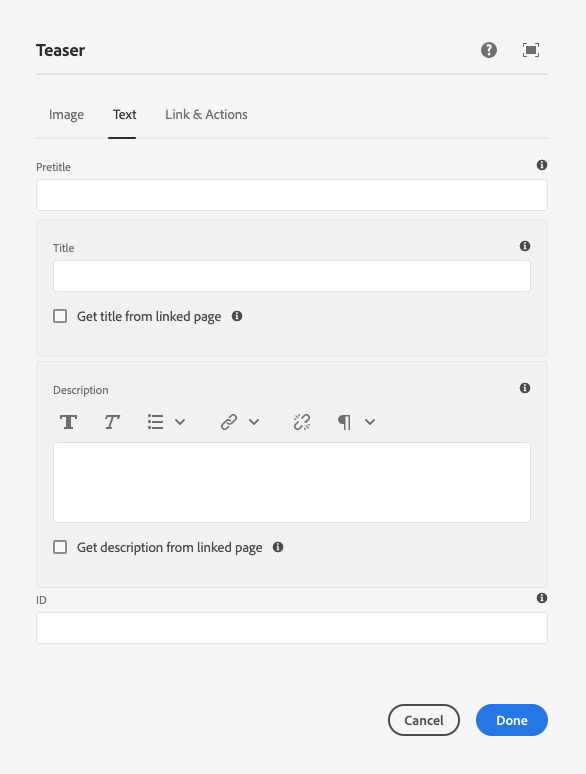
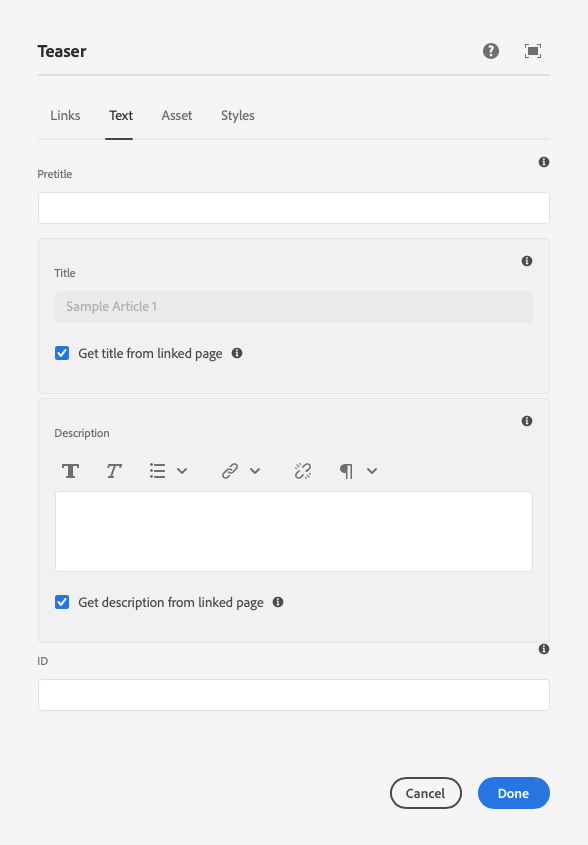
Updated teaser component

diff --git a/help/components/teaser.md b/help/components/teaser.md
@@ -39,20 +39,18 @@ Further details about developing Core Components can be found in the [Core Compo
 
 The content author can use the configure dialog to define the properties of the individual teaser. There is also an [edit dialog](#edit-dialog) to modify the teaser image if one is selected.
 
-### Image {#image}
+### Links Tab {#links-tab}
 
-![Teaser Component's edit dialog image tab](/help/assets/teaser-edit-image.png)
+![Teaser Component's edit dialog links tab](/help/assets/teaser-edit-links.png)
 
-* **Image asset**
-  * Drop an asset from the [asset browser](https://experienceleague.adobe.com/docs/experience-manager-cloud-service/sites/authoring/fundamentals/environment-tools.html) or tap the **browse** option to upload from a local file system.
-  * Tap or click **Clear** to de-select the currently selected image.
-  * Tap or click **Edit** to [mange the renditions of the asset](https://experienceleague.adobe.com/docs/experience-manager-cloud-service/assets/manage/manage-digital-assets.html) in the asset editor.
+The teaser title, description and image can be inherited from the linked page, or from the page linked in the first call to action. If neither a link nor a call to action is specified, then the title, description and image will be inherited from the current page.
 
->[!NOTE]
->
->[Dynamic Media features](image.md#dynamic-media) are not currently available in the Teaser Component.
+* **Link** - This file links to a content page, external URL, or page anchor.
+* **Open link in new tab** - If enabled, the link will open in a new browser tab.
+* **Call-to-actions** - This option allows linking to multiple destinations.
+  * The page linked in the first call-to-action is used when inheriting the teaser title, description, or image.
 
-### Text {#text}
+### Text Tab {#text-tab}
 
 ![Teaser Component's edit dialog text tab](/help/assets/teaser-edit-text.png)
 
@@ -66,12 +64,31 @@ The content author can use the configure dialog to define the properties of the 
   * If an ID is specified, it is the responsibility of the author to make sure that it is unique.
   * Changing the ID can have an impact on CSS, JS and Data Layer tracking.
 
-### Links & Actions {#links-actions}
+### Asset Tab {#asset-tab}
 
-![Teaser Component's edit dialog link tab](/help/assets/teaser-edit-link.png)
+![Teaser Component's edit dialog image tab](/help/assets/teaser-edit-image.png)
 
-* **Link** - Link applied to the teaser. Use the path browser to select the link target.
-* **Enable Call-To-Actions** -  When checked, enables definition of Call-To-Actions. The first Call-To-Action link in the list is used as the link for other teaser elements.
+* **Inherit featured image from page** - Use the image defined in the page properties of the linked page or the current page if none is found.
+* **Image asset** - Drop an asset from the [asset browser](https://experienceleague.adobe.com/docs/experience-manager-cloud-service/sites/authoring/fundamentals/environment-tools.html) or tap the **browse** option to upload from a local file system.
+  * Tap or click **Clear** to de-select the currently selected image.
+  * Tap or click **Edit** to [mange the renditions of the asset](https://experienceleague.adobe.com/docs/experience-manager-cloud-service/assets/manage/manage-digital-assets.html) in the asset editor.
+* **Alternative text for accessibility** - This field allows you to define a description of the image for visually impaired users.
+  * **Inherit alternative text from page** - This option uses the alternative description of the linked asset value of the `dc:description` metadata in DAM or of the current page if no asset is linked.
+* **Don't provide an alternative text** - This option marks the image to be ignored by assistive technologies like screen readers for cases where the image is purely decorative or otherwise conveys no additional information to the page.
+
+>[!NOTE]
+>
+>[Dynamic Media features](image.md#dynamic-media) are not currently available in the Teaser Component.
+
+### Styles Tab
+
+![Styles tab of the edit dialog of Teaser List Component](/help/assets/teaser-edit-styles.png)
+
+The Teaser Component supports the AEM [Style System.](/help/get-started/authoring.md#component-styling).
+
+Use the drop-down to select the styles that you want to apply to the component. Selections made in the edit dialog have the same effect as those chosen from the component toolbar.
+
+Styles must be configured for this component in the [design dialog](#design-dialog) in order for the drop down menu to be available.
 
 ## Edit Dialog {#edit-dialog}
 

diff --git a/help/components/image.md b/help/components/image.md
@@ -92,6 +92,7 @@ In addition to the standard [edit dialog](#edit-dialog) and [design dialog](#des
   * Tap or click **Edit** to [mange the renditions of the asset](https://experienceleague.adobe.com/docs/experience-manager-cloud-service/assets/manage/manage-digital-assets.html) in the asset editor.
 
 * **Don't provide an alternative text** - This option marks the image to be ignored by assistive technologies like screen readers for cases where the image is purely decorative or otherwise conveys no additional information to the page.
+
 ### Metadata Tab {#metadata-tab}
 
 ![Metadata tab of the Image Component's configure dialog](/help/assets/image-configure-metadata.png)
